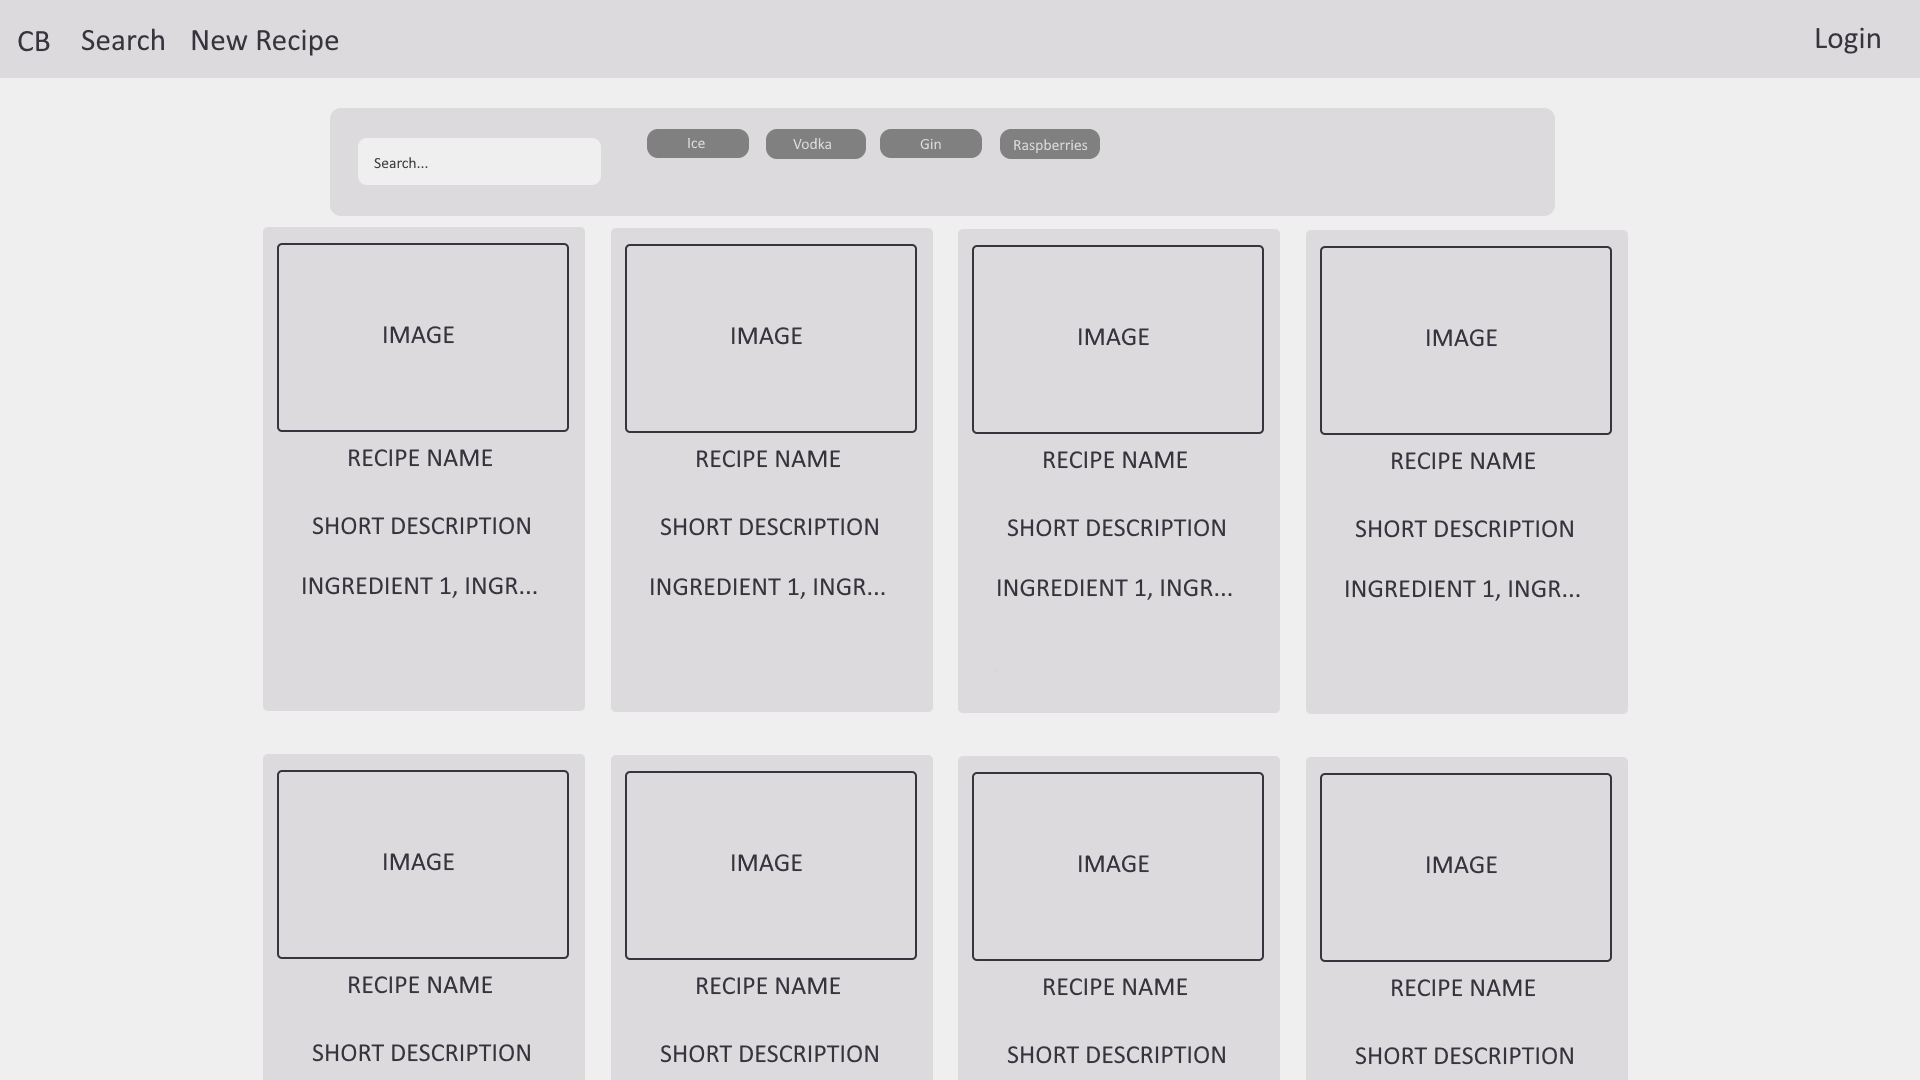
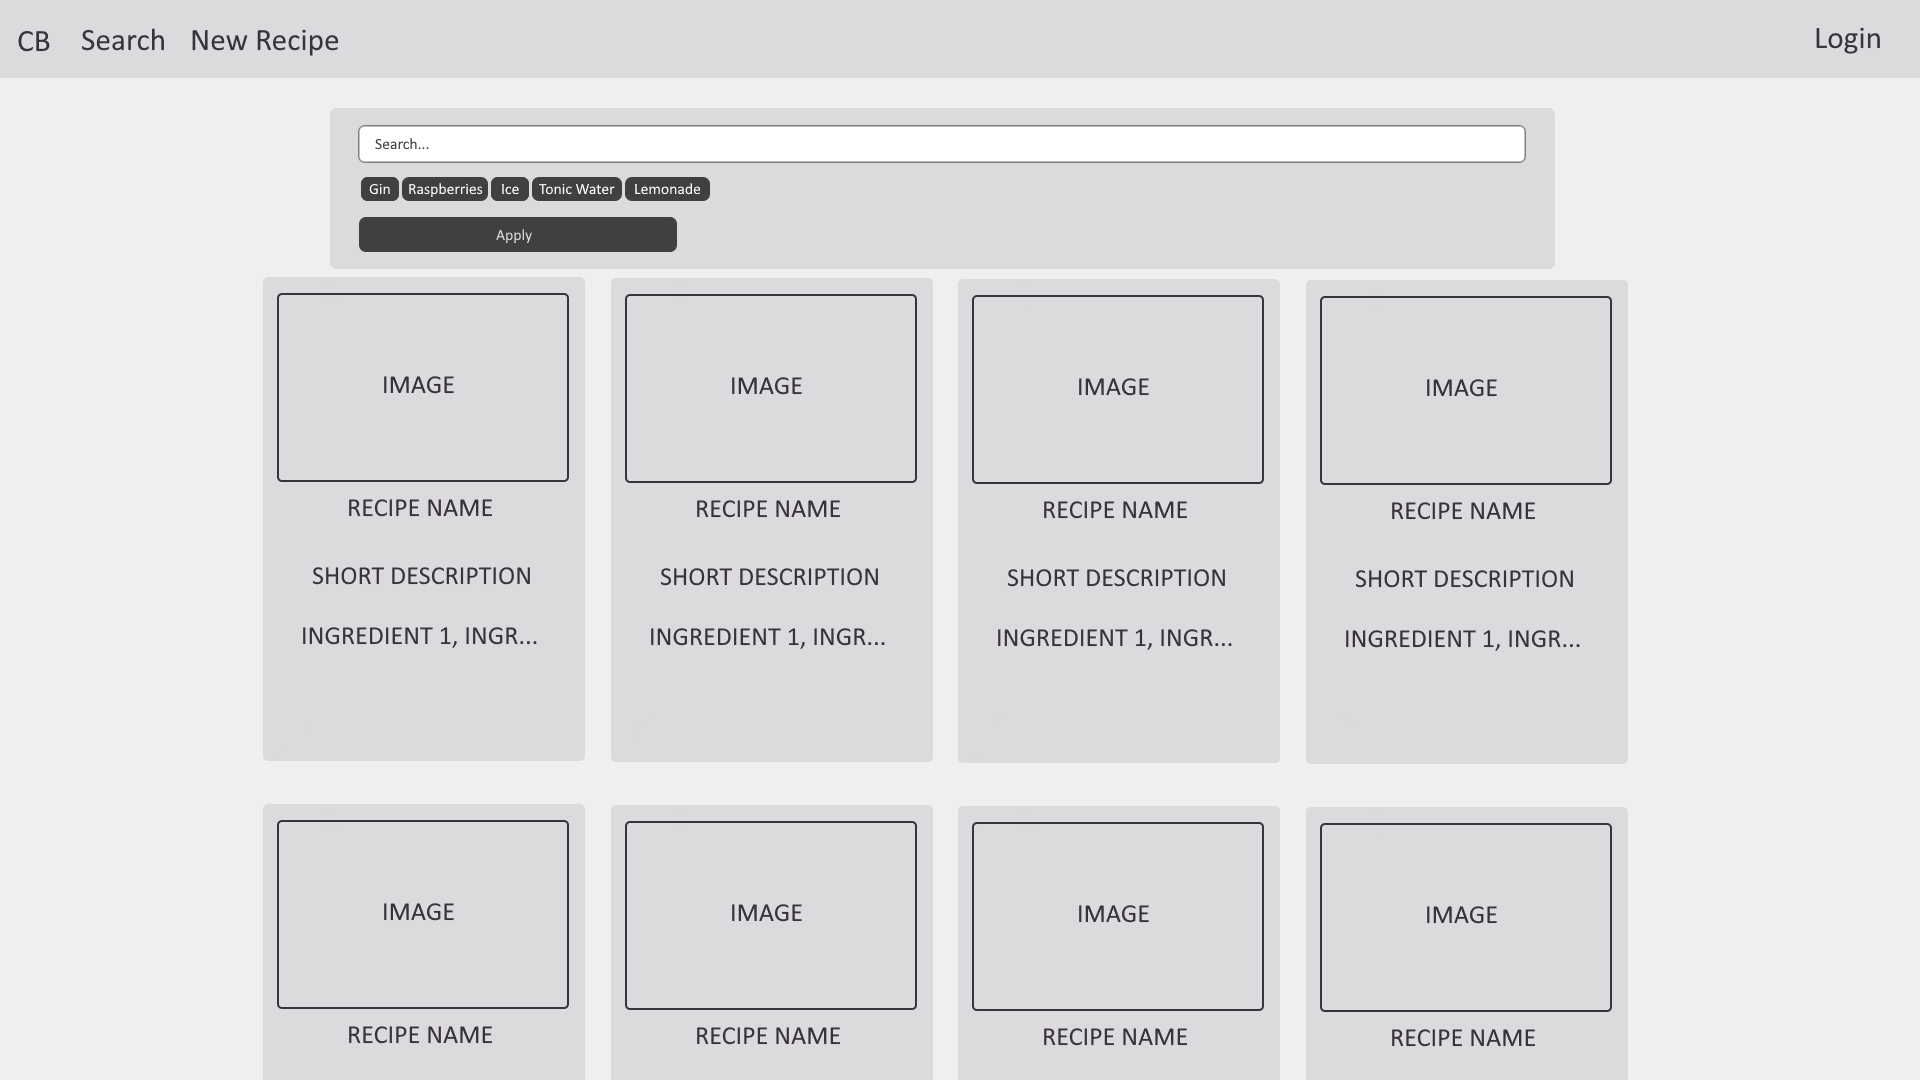
Sprint 4, update 2
Updated sprint 4 designs to include 'Apply' button in search area.
Implemented rudimentary filtering by ingredient type.

diff --git a/Site/script.js b/Site/script.js
@@ -8,12 +8,7 @@ $(window).scroll(function () {
 
 document.addEventListener("DOMContentLoaded", function () {
     console.log($(window).width());
-    loadRecipes(1);
-    
-
-    setTimeout(() => {
-        loadRecipes(calculateTotalRecipeCards());
-    }, 100);
+    loadInitialRecipes();
 
     
 });
@@ -49,6 +44,16 @@ function calculateTotalRecipeCards() {
     return (hCount * (calculateRecipeRowsNeeded()+1))-1;
 }
 // Counter for number of recipes loaded
+
+function loadInitialRecipes() {
+    loadedRecipes = 0;
+    document.getElementById("recipeRow").innerHTML="";
+    loadRecipes(1);
+    setTimeout(() => {
+        loadRecipes(calculateTotalRecipeCards());
+    }, 100);
+}
+
 var loadedRecipes = 0;
 
 function loadRecipes(count) {
@@ -63,46 +68,10 @@ function loadRecipes(count) {
         // Check recipe exists
         if (recipes[i]) {
             let recipeID = i;
-            // Create new object with each element (img, title, description, ingredients)
             var recipe = recipes[i];
-            const obj = {
-                tagName: "DIV",
-                id: "recipeCard" || null,
-                classList: ["recipe-column", "recipeCard"],
-                onClick: null,
-                children: []
-            };
-            const imgChild = {
-                tagName: "img",
-                id: "childParagraph",
-                attributes: {
-                    src: "images/cocktails/cover-1.png"
-                }
-            };
-            obj.children.push(imgChild);
-            const titleP = {
-                tagName: "P",
-                id: "title",
-                innerHTML: recipe.name
-            };
-            obj.children.push(titleP);
-            const descP = {
-                tagName: "P",
-                id: "description",
-                innerHTML: recipe.description
-            };
-            obj.children.push(descP);
-            // Separate each ingredient in array with a comma and whitespace
-            const ingredientsString = recipe.ingredients.join(', ');
-            const ingP = {
-                tagName: "P",
-                id: "ingredients",
-                innerHTML: ingredientsString
-            };
-            obj.children.push(ingP);
-            
-            // Create dom element
-            const divElement = createDomElement(obj);
+             // Create new object with each child element (img, title, description, ingredients)
+            const divElement = createDivElement(recipe);
+            // Set onclick listener
             divElement.onclick = (event) => ViewRecipe(event, recipeID);
             // Add element to document
             document.getElementById("recipeRow").appendChild(divElement);
@@ -194,6 +163,201 @@ function ViewRecipe(event, id, close) {
 function displayLoginCard() {
     document.getElementById("loginCard").style.display = "block";
 }
+
+const searchFilters = [];
+
+function toggleSearchFilter(item) {
+    // Get index of item in searchFilters array
+    let index = searchFilters.indexOf(item);
+    // suffix for each search filter item id
+    var idSuffix = "_searchfilter";
+
+    let itemID = item + idSuffix;
+    itemID = itemID.replace(/\s+/g, '-').toLowerCase();
+
+    // If the item is not in the array:
+    if (index == -1) {
+        // Add the item
+        searchFilters.push(item);
+        // Update class list to change colours
+        document.getElementById(itemID).classList.add("searchItemToggled");
+    }
+    // If the item is in the array
+    else {
+        // Remove the item
+        searchFilters.splice(index, 1);
+        // Update class list to change colours
+        document.getElementById(itemID).classList.remove("searchItemToggled");
+    }
+    console.log(searchFilters);
+}
+
+// Returns true if the all the elements of array1 are present in array2
+function canMakeRecipe(array1, array2) {
+    return array1.every(item => array2.includes(item));
+}
+
+// Creates a dom element from a collection of objects
+function createDivElement(recipe) {
+
+    // Parent object
+    const obj = {
+        tagName: "DIV",
+        id: "recipeCard" || null,
+        classList: ["recipe-column", "recipeCard"],
+        onClick: null,
+        children: []
+    };
+    // Child objects
+    const imgChild = {
+        tagName: "img",
+        id: "childParagraph",
+        attributes: {
+            src: "images/cocktails/cover-1.png"
+        }
+    };
+    obj.children.push(imgChild);
+    const titleP = {
+        tagName: "P",
+        id: "title",
+        innerHTML: recipe.name
+    };
+    obj.children.push(titleP);
+    const descP = {
+        tagName: "P",
+        id: "description",
+        innerHTML: recipe.description
+    };
+    obj.children.push(descP);
+    // Separate each ingredient in array with a comma and whitespace
+    const ingredientsString = recipe.ingredients.join(', ');
+    const ingP = {
+        tagName: "P",
+        id: "ingredients",
+        innerHTML: ingredientsString
+    };
+    obj.children.push(ingP);
+    
+    // Create dom element
+    const divElement = createDomElement(obj);
+
+    // Creates dom element from collection of objects
+    function createDomElement(obj) {
+        // Create blank element
+        const element = document.createElement(obj.tagName);
+
+        // Set element id if obj has an id
+        if (obj.id) {
+            element.id = obj.id;
+        }
+
+        // Check .classList isn't null and is an array
+        if (obj.classList && Array.isArray(obj.classList)) {
+            // Add each element in array to class list
+            element.classList.add(...obj.classList);
+        }
+
+        // Check .attributes isn't null
+        if (obj.attributes) {
+            // Add each attirubte to element
+            Object.entries(obj.attributes).forEach(([key, value]) => {
+                element.setAttribute(key, value);
+            });
+        }
+
+        // Check .innerHTML isn't null and add to element
+        if (obj.innerHTML) {
+            element.innerHTML = obj.innerHTML;
+        }
+
+        // Create DOM element for each child and append to parent
+        if (obj.children && Array.isArray(obj.children)) {
+            obj.children.forEach(childObj => {
+                const childElement = createDomElement(childObj);
+                element.appendChild(childElement); // Append the child element to the parent
+            });
+        }
+
+        return element;
+    }
+
+    return divElement;
+}
+
+// 
+function searchRecipes() {
+    // Check if any filters have been applied
+    if (searchFilters.length === 0) {
+        // Remove all recipe cards from list
+        loadInitialRecipes();
+
+    }
+    else {
+
+        var recipes = loadFile("recipes.json");
+        // Parse as JSON content 
+        recipes = JSON.parse(recipes);
+
+        document.getElementById("recipeRow").innerHTML="";
+
+        // Get number of recipes
+        var total = Object.keys(recipes).length;
+        console.log("filters are " + searchFilters);
+        // Start loading recipes from loadedRecipes value to loadedRecipes+count
+        for (let i = 0; i < total-1; i++) {
+            if (canMakeRecipe(recipes[i].ingredients, searchFilters)) {
+                console.log("filters match: " + recipes[i].ingredients + " " + searchFilters)
+                let recipeID = i;
+                // Create new object with each element (img, title, description, ingredients)
+                var recipe = recipes[i];
+                const divElement = createDivElement(recipe);
+                divElement.onclick = (event) => ViewRecipe(event, recipeID);
+                // Add element to document
+                document.getElementById("recipeRow").appendChild(divElement);
+            }
+        }  
+    }
+
+    // function createDomElement(obj) {
+    //     // Create blank element
+    //     const element = document.createElement(obj.tagName);
+
+    //     // Set element id if obj has an id
+    //     if (obj.id) {
+    //         element.id = obj.id;
+    //     }
+
+    //     // Check .classList isn't null and is an array
+    //     if (obj.classList && Array.isArray(obj.classList)) {
+    //         // Add each element in array to class list
+    //         element.classList.add(...obj.classList);
+    //     }
+
+    //     // Check .attributes isn't null
+    //     if (obj.attributes) {
+    //         // Add each attirubte to element
+    //         Object.entries(obj.attributes).forEach(([key, value]) => {
+    //             element.setAttribute(key, value);
+    //         });
+    //     }
+
+    //     // Check .innerHTML isn't null and add to element
+    //     if (obj.innerHTML) {
+    //         element.innerHTML = obj.innerHTML;
+    //     }
+
+    //     // Create DOM element for each child and append to parent
+    //     if (obj.children && Array.isArray(obj.children)) {
+    //         obj.children.forEach(childObj => {
+    //             const childElement = createDomElement(childObj);
+    //             element.appendChild(childElement); // Append the child element to the parent
+    //         });
+    //     }
+
+    //     return element;
+    // }
+}
+
 
 // Check if username exists in users.json
 function UserExists(username) {

diff --git a/Site/styles.css b/Site/styles.css
@@ -64,7 +64,6 @@ body {
     
 }
 
-
 .recipeCard {
     display: block;
     border-radius: 5px;
@@ -95,9 +94,8 @@ body {
     cursor: pointer;
 }
 
-
-
 /* Detailed recipe view styling ----------------------- */
+
 .recipeView {
     position: relative;
     display: none;
@@ -144,7 +142,7 @@ body {
     display: none;
     border-radius: 5px;
     padding: 20px;
-    margin-top: 10%;
+    margin-top: 5%;
 }
 
 .loginCard input[type=text], input[type=password], select {
@@ -171,6 +169,57 @@ body {
     float: right;
 }
 .loginCard input[type=button]:hover {
+    background-color: #c099f1;
+    scale: 1.05;
+}
+
+/* search card styling ----------------------- */
+.searchCard {
+    display: block;
+    border-radius: 5px;
+    padding: 20px;
+    margin-top: 1%;
+    background-color: #DCDADD;
+    width: 70%;
+}
+
+.searchCard input[type=text], input[type=password], select {
+    width: 100%;
+    padding: 12px 20px;
+    margin: 8px 0;
+    display: inline-block;
+    border: 1px solid #ccc;
+    border-radius: 4px;
+    box-sizing: border-box;
+}
+
+.searchItem {
+    background-color: #808080;
+    color: #EFEFEF;
+    padding: 5px 5px;
+    margin: 8px 0;
+    border: none;
+    border-radius: 4px;
+    cursor: pointer;
+    max-width: 48%;
+}
+.searchItemToggled {
+    background-color: #c099f1;
+}
+
+.searchCardButton {
+    width: 100%;
+    background-color: #38343e;
+    color: #EFEFEF;
+    padding: 14px 20px;
+    margin: 8px 0;
+    border: none;
+    border-radius: 4px;
+    cursor: pointer;
+    max-width: 48%;
+}
+
+.searchCard input[type=button]:hover {
     background-color: #c099f1;
     scale: 1.05;
 }

diff --git a/Site/index.html b/Site/index.html
@@ -19,6 +19,27 @@
   </div>
 </div>
 
+<!--Search Section-->
+<div class="row">
+  <div id="searchCard" class="column searchCard">
+    <!---Filters-->
+    <form>
+      <input type="text" id="searchInput" name="search" placeholder="Search...">
+      <input type="button" class="searchItem" onclick="toggleSearchFilter('Gin')" id="gin_searchfilter" value="Gin">
+      <input type="button" class="searchItem" onclick="toggleSearchFilter('Raspberries')" id="raspberries_searchfilter" value="Raspberries">
+      <input type="button" class="searchItem" onclick="toggleSearchFilter('Ice')" id="ice_searchfilter" value="Ice">
+      <input type="button" class="searchItem" onclick="toggleSearchFilter('Tonic Water')" id="tonic-water_searchfilter" value="Tonic Water">
+      <input type="button" class="searchItem" onclick="toggleSearchFilter('Lemonade')" id="lemonade_searchfilter" value="Lemonade">
+    </form>
+
+    <form>
+      <input type="button" class="searchCardButton" onclick="searchRecipes()" id="" value="Apply">
+     </form>
+
+    </form>
+  </div>
+</div>
+
 <!--Login Section-->
 <div class="row">
   <div id="loginCard" class="column loginCard">
